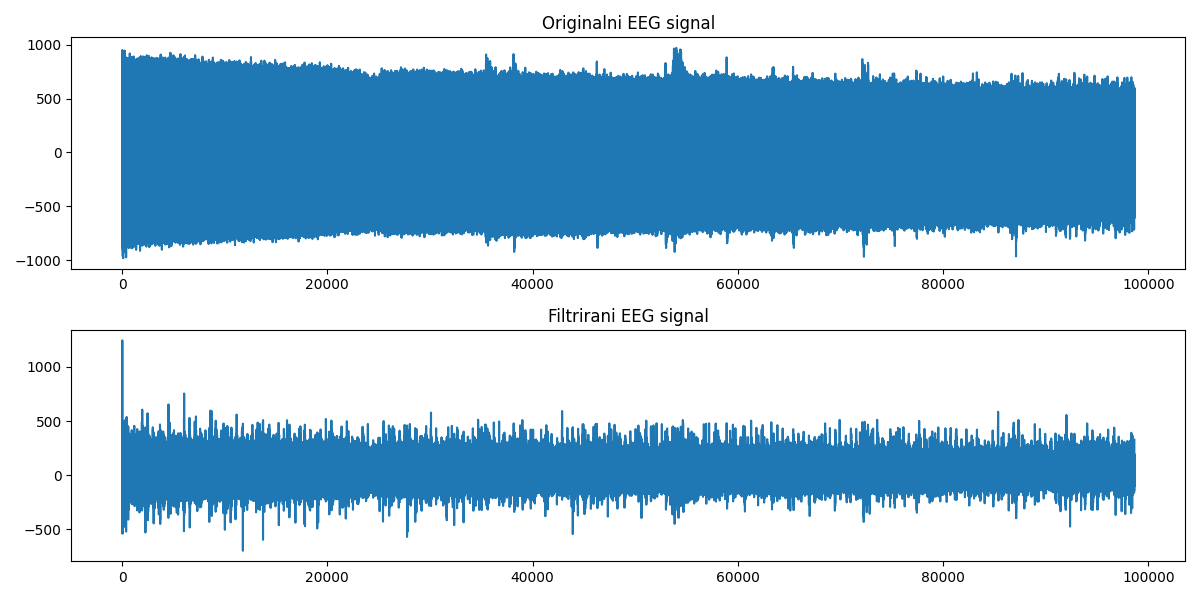
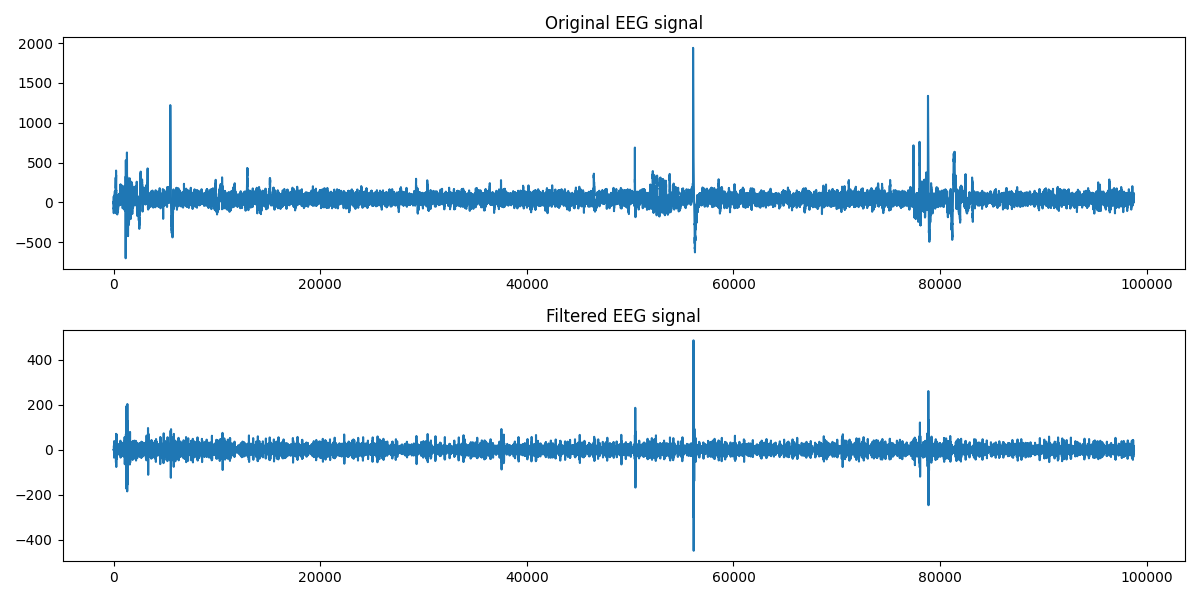
Small update

diff --git a/main.py b/main.py
@@ -4,7 +4,6 @@ from scipy.signal import medfilt, butter, lfilter, iirfilter
 import matplotlib.pyplot as plt
 
 
-
 # Median filter
 def median(signal):
     array = np.array(signal)
@@ -12,7 +11,6 @@ def median(signal):
     return med_filtered
 
 
-# Butterworth filter
 def butter_bandpass(lowcut, highcut, fs, order=5):
     nyquist = 0.5 * fs
     low = lowcut / nyquist
@@ -21,6 +19,7 @@ def butter_bandpass(lowcut, highcut, fs, order=5):
     return b, a
 
 
+# Butterworth filter
 def butter_bandpass_filter(data, lowcut, highcut, fs, order=5):
     b, a = butter_bandpass(lowcut, highcut, fs, order=order)
     y = lfilter(b, a, data)
@@ -56,12 +55,12 @@ def lowpass_filter(signal, highcut, fs, order=5):
     return filtered_signal
 
 
-# Band-stop filter
-def bandstop_filter(signal, fs, lowcut, highcut):
+# Band-pass filter
+def bandpass_filter(signal, fs, lowcut, highcut):
     nyquist = 0.5 * fs
     low = lowcut / nyquist
     high = highcut / nyquist
-    b, a = butter(4, [low, high], btype='bandstop')
+    b, a = butter(4, [low, high], btype='bandpass')
     filtered_signal = lfilter(b, a, signal)
     return filtered_signal
 
@@ -74,15 +73,27 @@ def load_eeg_signal(filename):
     return eeg_signal
 
 
+"""""
+In case of using dataset with defined electrodes in each column
+
+def load_eeg_signal(filename):
+    data = pd.read_csv(filename)
+    print(data.columns)  # Print the column names to verify their correctness
+    eeg_signal = data.values[:, :-1]
+    return eeg_signal
+    
+"""""
+
+
 # Generate image
 def generate_image(signal, filtered_signal):
     plt.figure(figsize=(12, 6))
     plt.subplot(2, 1, 1)
     plt.plot(signal)
-    plt.title('Originalni EEG signal')
+    plt.title('Original EEG signal')
     plt.subplot(2, 1, 2)
     plt.plot(filtered_signal)
-    plt.title('Filtrirani EEG signal')
+    plt.title('Filtered EEG signal')
     plt.tight_layout()
     plt.savefig('eeg_signal_comparison.png')  # Save the image as 'eeg_signal_comparison.png'
     plt.show()
@@ -90,41 +101,37 @@ def generate_image(signal, filtered_signal):
 
 # Separation of frequency bands
 def separate_frequency_bands(signal, fs):
-    # Apply Fourier transform to convert signal to frequency domain
     frequency_domain = np.fft.fft(signal)
 
-    # Frequency range
     n = len(signal)
     frequency = np.fft.fftfreq(n, d=1.0 / fs)
 
-    # Define frequency band ranges (in Hz)
     delta_band = (0.5, 4)
     theta_band = (4, 8)
     alpha_band = (8, 12)
     beta_band = (12, 30)
     gamma_band = (30, 100)
 
-    # Find indices corresponding to each frequency band
     delta_indices = np.where(np.logical_and(frequency >= delta_band[0], frequency < delta_band[1]))[0]
     theta_indices = np.where(np.logical_and(frequency >= theta_band[0], frequency < theta_band[1]))[0]
     alpha_indices = np.where(np.logical_and(frequency >= alpha_band[0], frequency < alpha_band[1]))[0]
     beta_indices = np.where(np.logical_and(frequency >= beta_band[0], frequency < beta_band[1]))[0]
     gamma_indices = np.where(np.logical_and(frequency >= gamma_band[0], frequency < gamma_band[1]))[0]
 
-    # Extract amplitude spectra for each frequency band
     delta_spectrum = np.abs(frequency_domain[delta_indices])
     theta_spectrum = np.abs(frequency_domain[theta_indices])
     alpha_spectrum = np.abs(frequency_domain[alpha_indices])
     beta_spectrum = np.abs(frequency_domain[beta_indices])
     gamma_spectrum = np.abs(frequency_domain[gamma_indices])
 
-    return (delta_spectrum, theta_spectrum, alpha_spectrum, beta_spectrum, gamma_spectrum)
+    return delta_spectrum, theta_spectrum, alpha_spectrum, beta_spectrum, gamma_spectrum
 
 
 # Generate plots for frequency bands
 def generate_combined_plots(signal, filtered_signal, fs):
     delta_spectrum, theta_spectrum, alpha_spectrum, beta_spectrum, gamma_spectrum = separate_frequency_bands(signal, fs)
-    delta_filtered_spectrum, theta_filtered_spectrum, alpha_filtered_spectrum, beta_filtered_spectrum, gamma_filtered_spectrum = separate_frequency_bands(filtered_signal, fs)
+    delta_filtered_spectrum, theta_filtered_spectrum, alpha_filtered_spectrum, beta_filtered_spectrum, gamma_filtered_spectrum = separate_frequency_bands(
+        filtered_signal, fs)
 
     fig, axs = plt.subplots(5, 2, figsize=(12, 9))
     plt.subplots_adjust(bottom=0.2)
@@ -165,7 +172,7 @@ def generate_combined_plots(signal, filtered_signal, fs):
 
 def main():
     # Load EEG signal from file
-    eeg_signal = load_eeg_signal('C:/Users/User-PC/Desktop/dps/raw1.csv')
+    eeg_signal = load_eeg_signal('C:/Users/User-PC/Desktop/dps/raw4.csv')
 
     # User input for filter selection
     filter_choice = input(
@@ -185,25 +192,26 @@ def main():
         fs = 512  # Sampling frequency (Hz)
         freq = 60.0  # Notch frequency to remove (e.g., power line interference)
         ripple = 5.0  # Passband ripple (dB)
-        order = 8  # Filter order
-        filter_type = 'cheby1'  # Filter type (e.g., Butterworth)
+        order = 5  # Filter order
+        filter_type = 'cheby1'  # Filter type
         filtered_signal = notch_filter(eeg_signal, fs, freq, ripple, order, filter_type)
     elif filter_choice == '4':
         # Apply High-pass filter
-        lowcut = 0.1  # Lower cutoff frequency
+        lowcut = 0.5  # Lower cutoff frequency
         fs = 512  # Sampling frequency (Hz)
         filtered_signal = highpass_filter(eeg_signal, lowcut, fs, order=5)
     elif filter_choice == '5':
         # Apply Low-pass filter
-        highcut = 50.0  # Upper cutoff frequency
+        highcut = 30.0  # Upper cutoff frequency
         fs = 512  # Sampling frequency (Hz)
         filtered_signal = lowpass_filter(eeg_signal, highcut, fs, order=5)
     elif filter_choice == '6':
-        # Apply Band-stop filter
-        lowcut = 45.0  # Lower cutoff frequency
-        highcut = 55.0  # Upper cutoff frequency
+        # Apply Bandpass filter
+        lowcut = 10  # Lower cutoff frequency
+        highcut = 20  # Upper cutoff frequency
         fs = 512  # Sampling frequency (Hz)
-        filtered_signal = bandstop_filter(eeg_signal, fs, lowcut, highcut)
+        filtered_signal = bandpass_filter(eeg_signal, fs, lowcut, highcut)
+
     else:
         print("Invalid filter choice.")
         return
@@ -212,10 +220,8 @@ def main():
     generate_image(eeg_signal, filtered_signal)
     fs = 512  # Define the default sampling frequency (Hz)
     # Generate frequency band plots
-    generate_combined_plots(eeg_signal, filtered_signal , fs);
-
+    generate_combined_plots(eeg_signal, filtered_signal, fs)
 
 
 if __name__ == "__main__":
     main()
-
